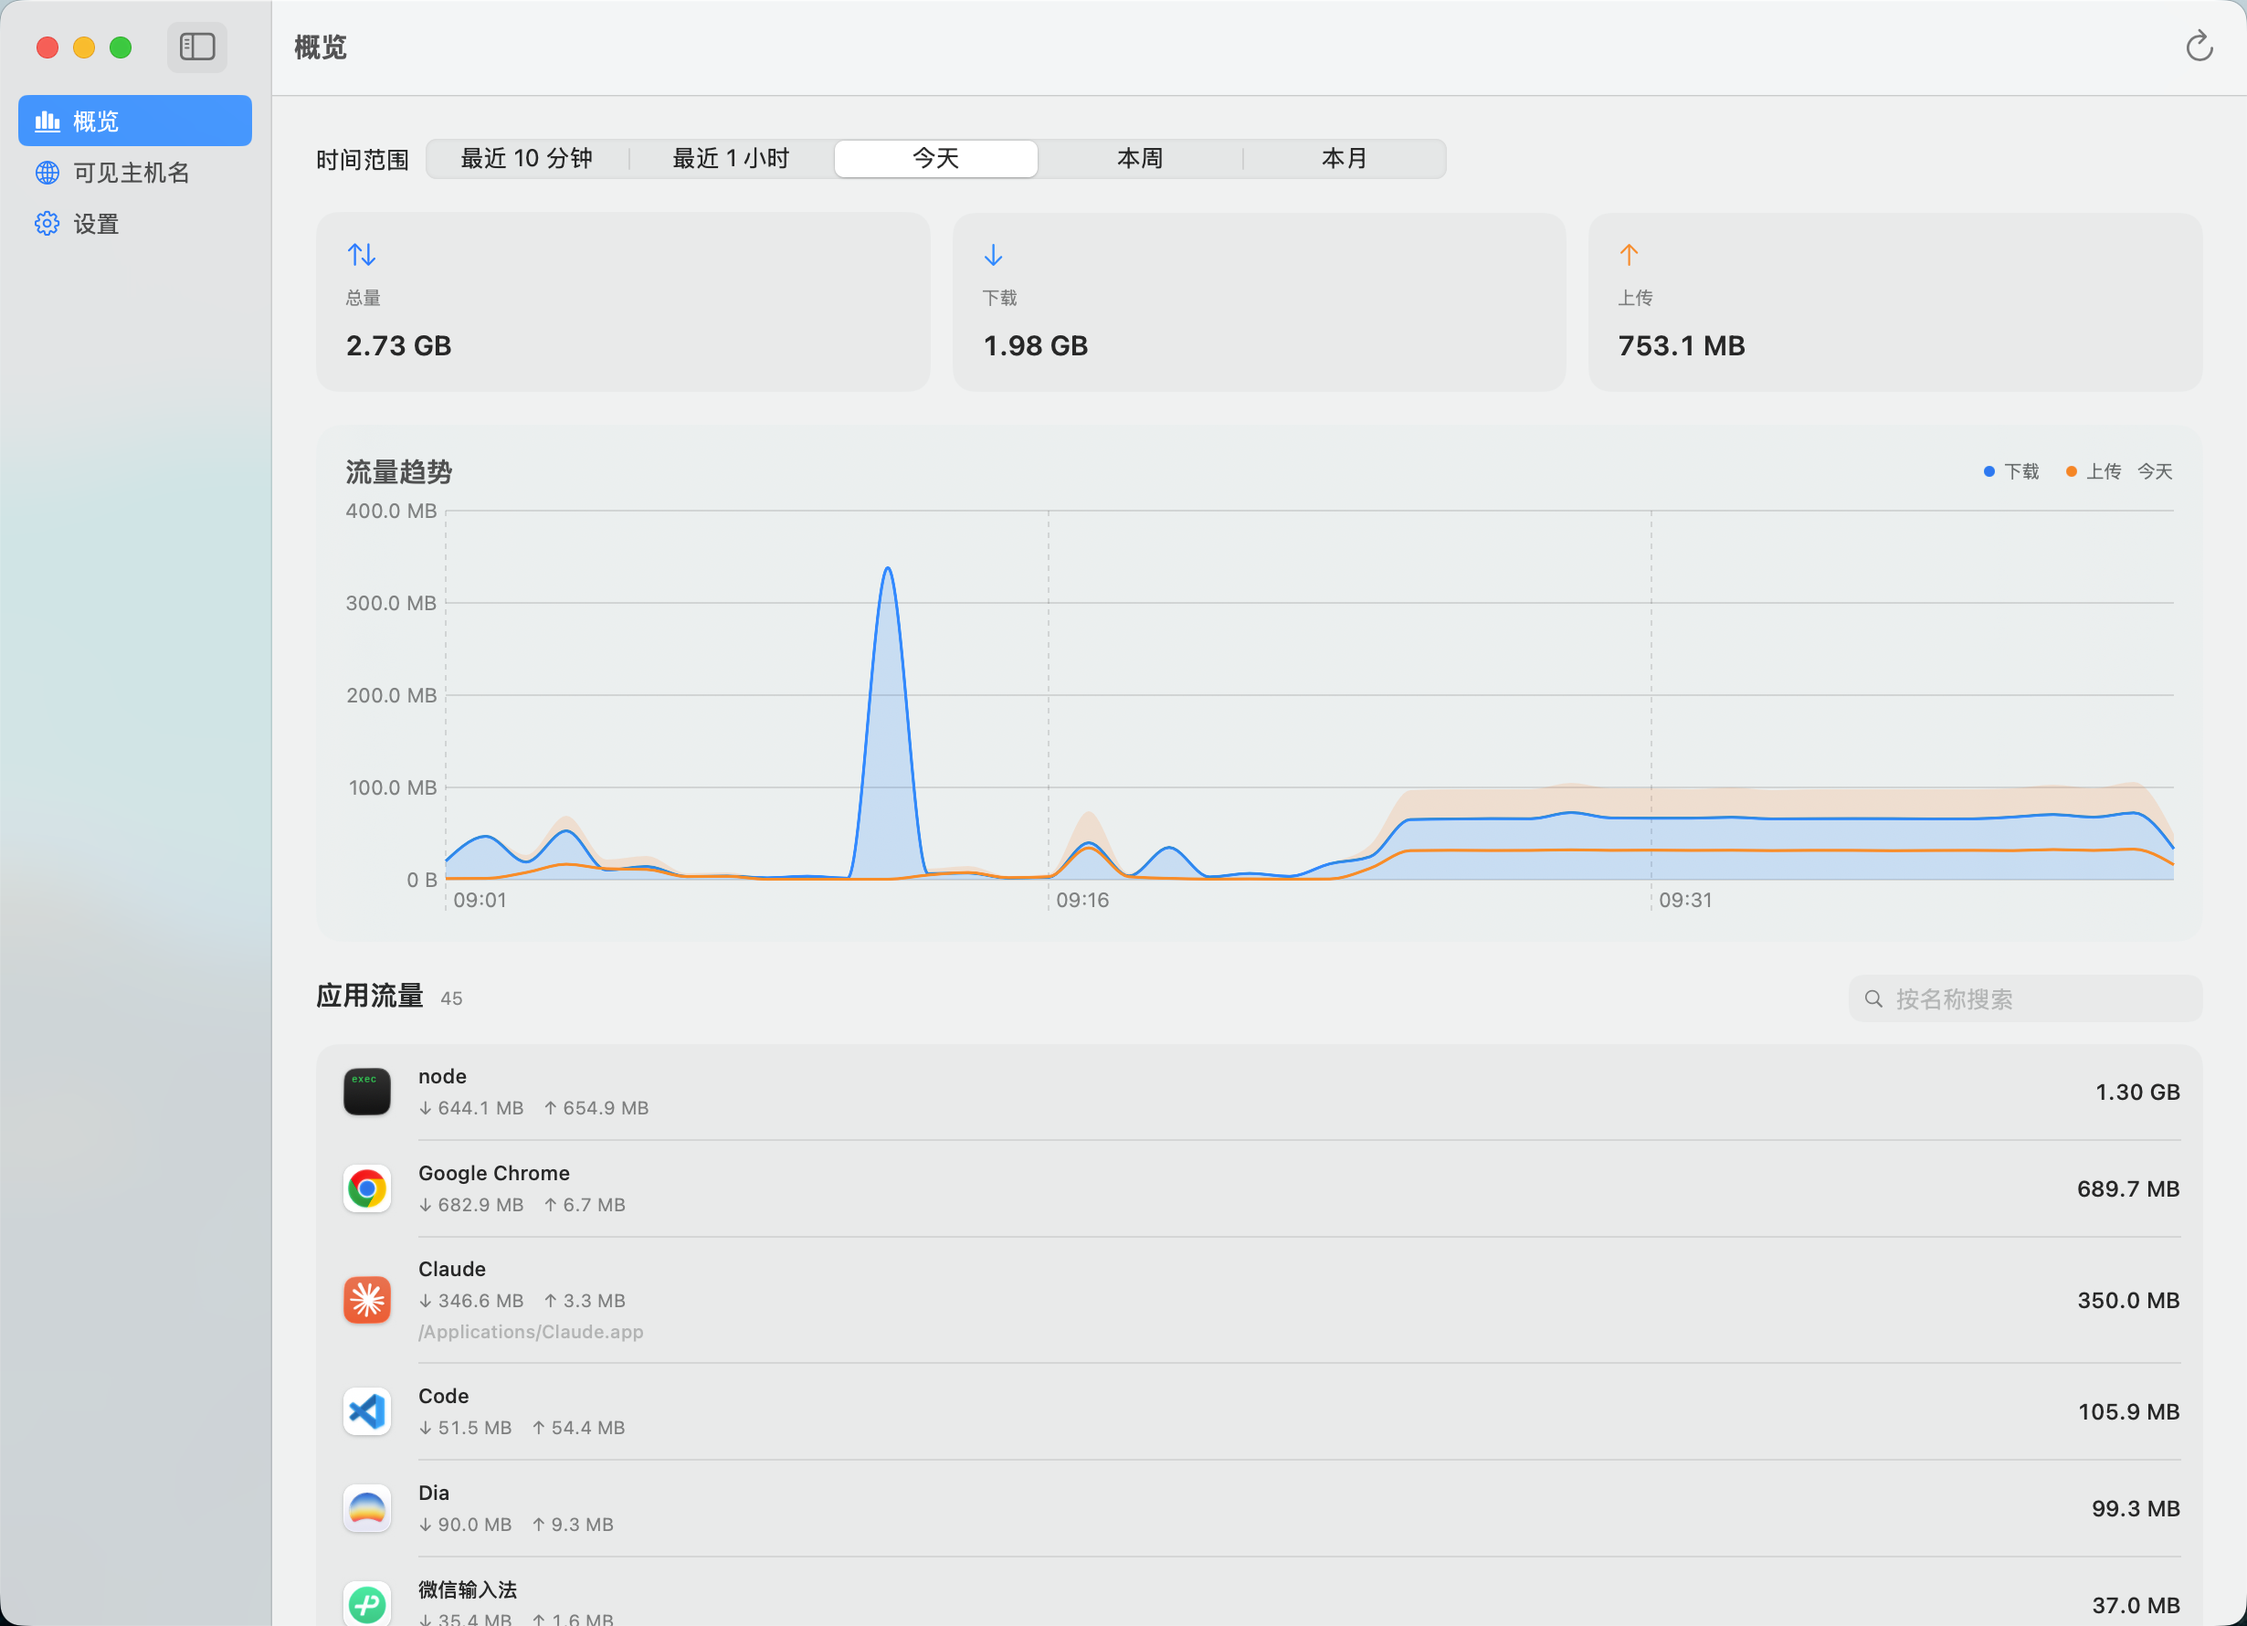
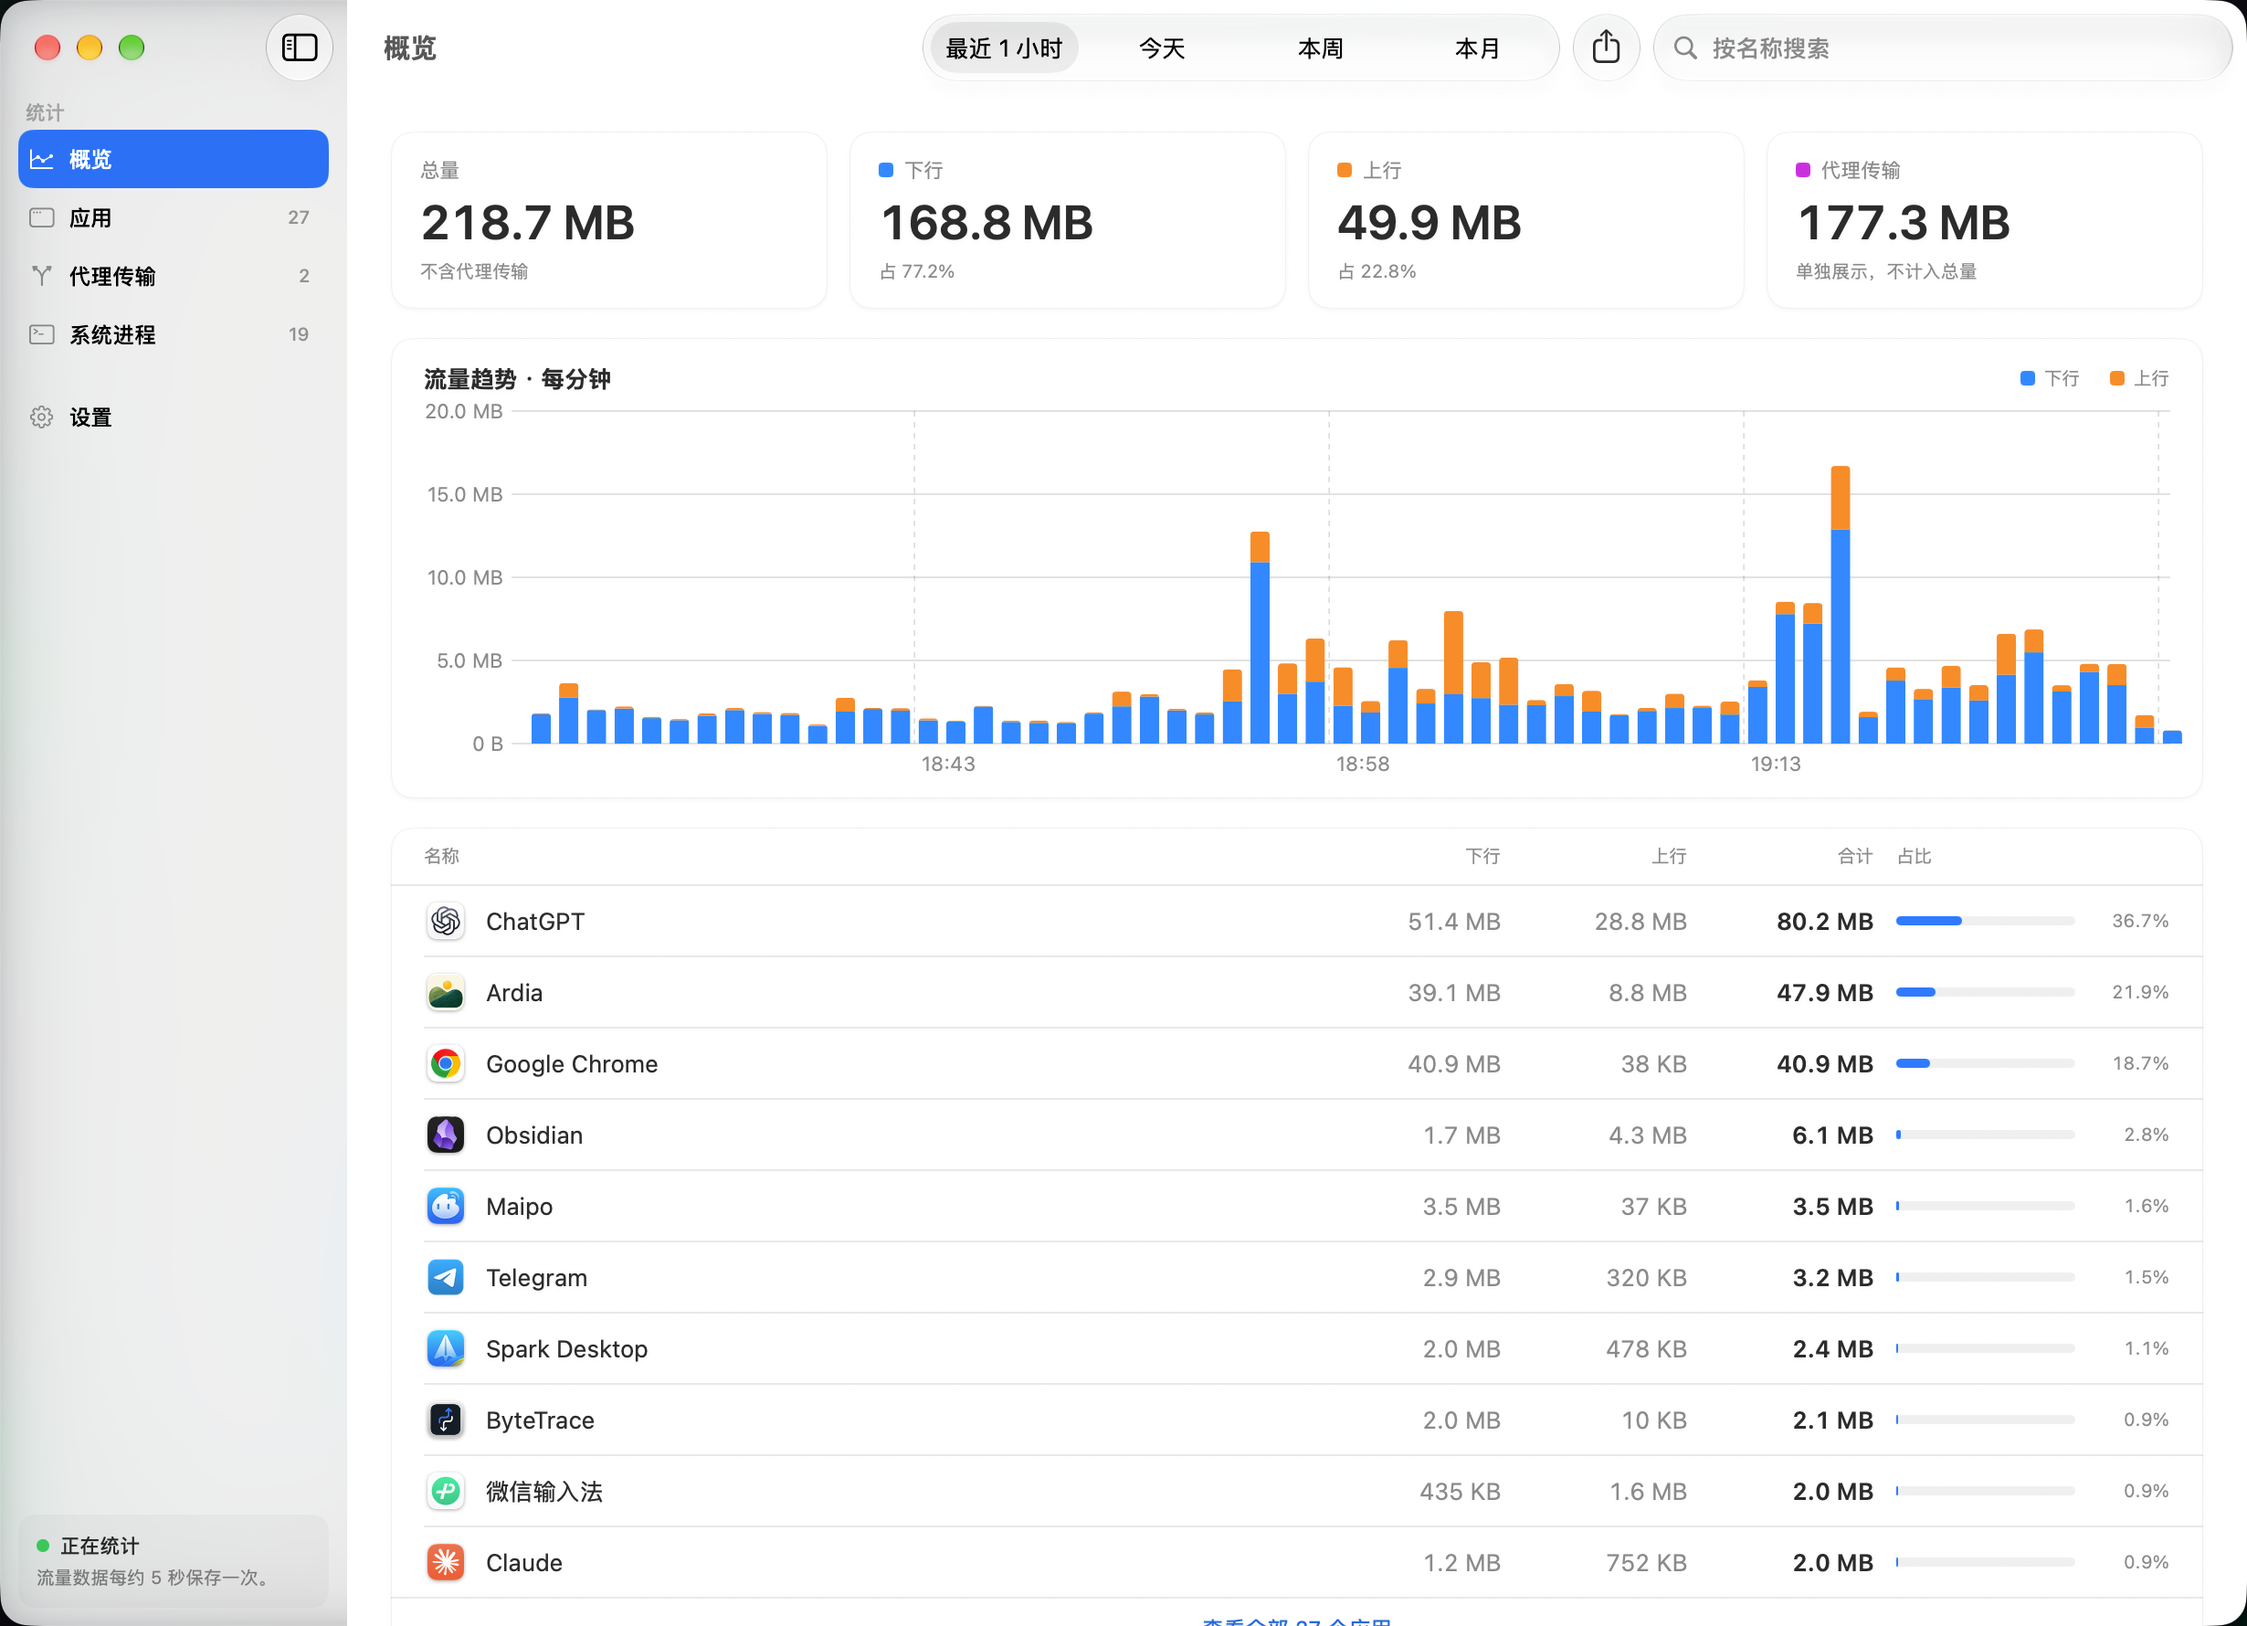
docs: 更新界面截图并并排展示深浅色面板

diff --git a/README_EN.md b/README_EN.md
@@ -28,7 +28,9 @@
 </p>
 
 <p align="center">
-  <img src="docs/images/menubar-panel.png" width="380" alt="ByteTrace Menu Bar Panel">
+  <img src="docs/images/menubar-panel.png" width="360" alt="ByteTrace Menu Bar Panel - Light Appearance">
+  <img src="docs/images/menubar-panel-dark.png" width="360" alt="ByteTrace Menu Bar Panel - Dark Appearance"><br>
+  <sub>Menu bar panel (light on the left, dark on the right)</sub>
 </p>
 
 ---

diff --git a/README.md b/README.md
@@ -28,7 +28,9 @@
 </p>
 
 <p align="center">
-  <img src="docs/images/menubar-panel.png" width="380" alt="ByteTrace 菜单栏面板">
+  <img src="docs/images/menubar-panel.png" width="360" alt="ByteTrace 菜单栏面板，浅色外观">
+  <img src="docs/images/menubar-panel-dark.png" width="360" alt="ByteTrace 菜单栏面板，深色外观"><br>
+  <sub>菜单栏面板（左为浅色，右为深色）</sub>
 </p>
 
 ---
